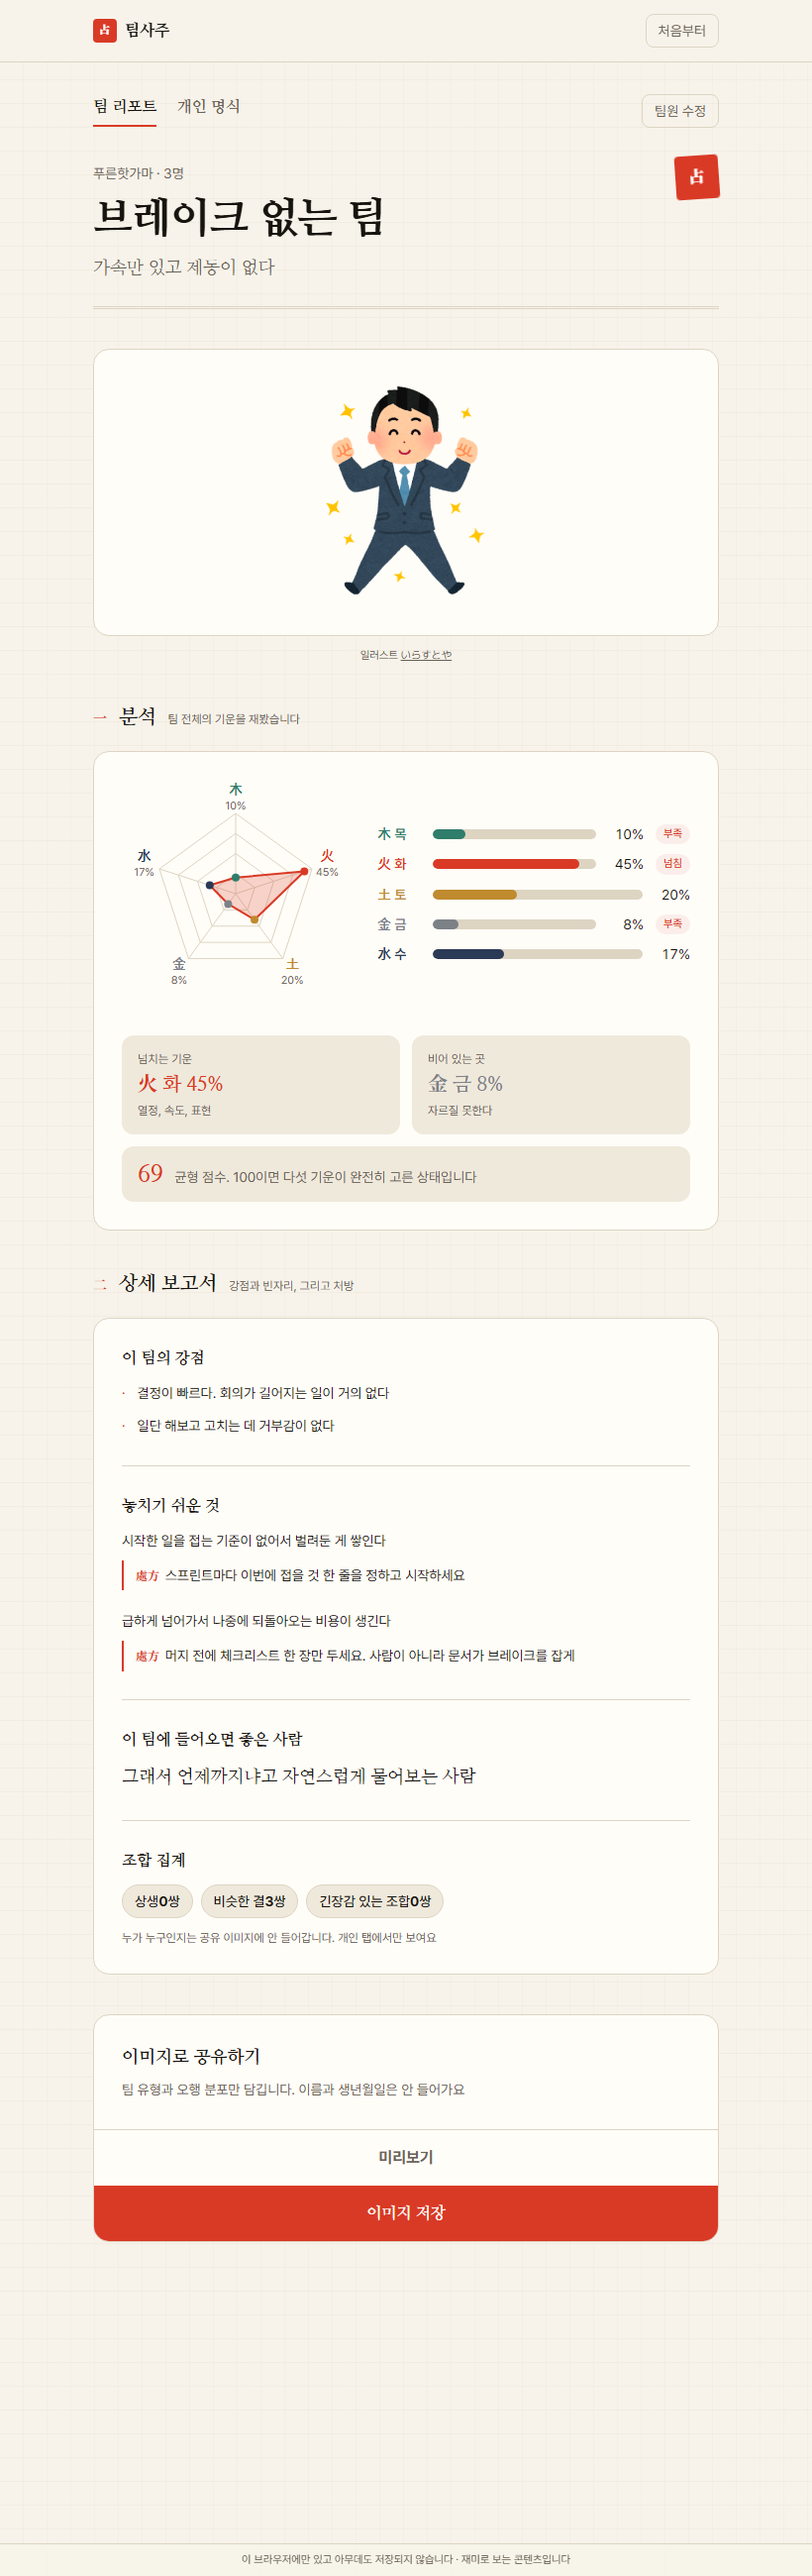
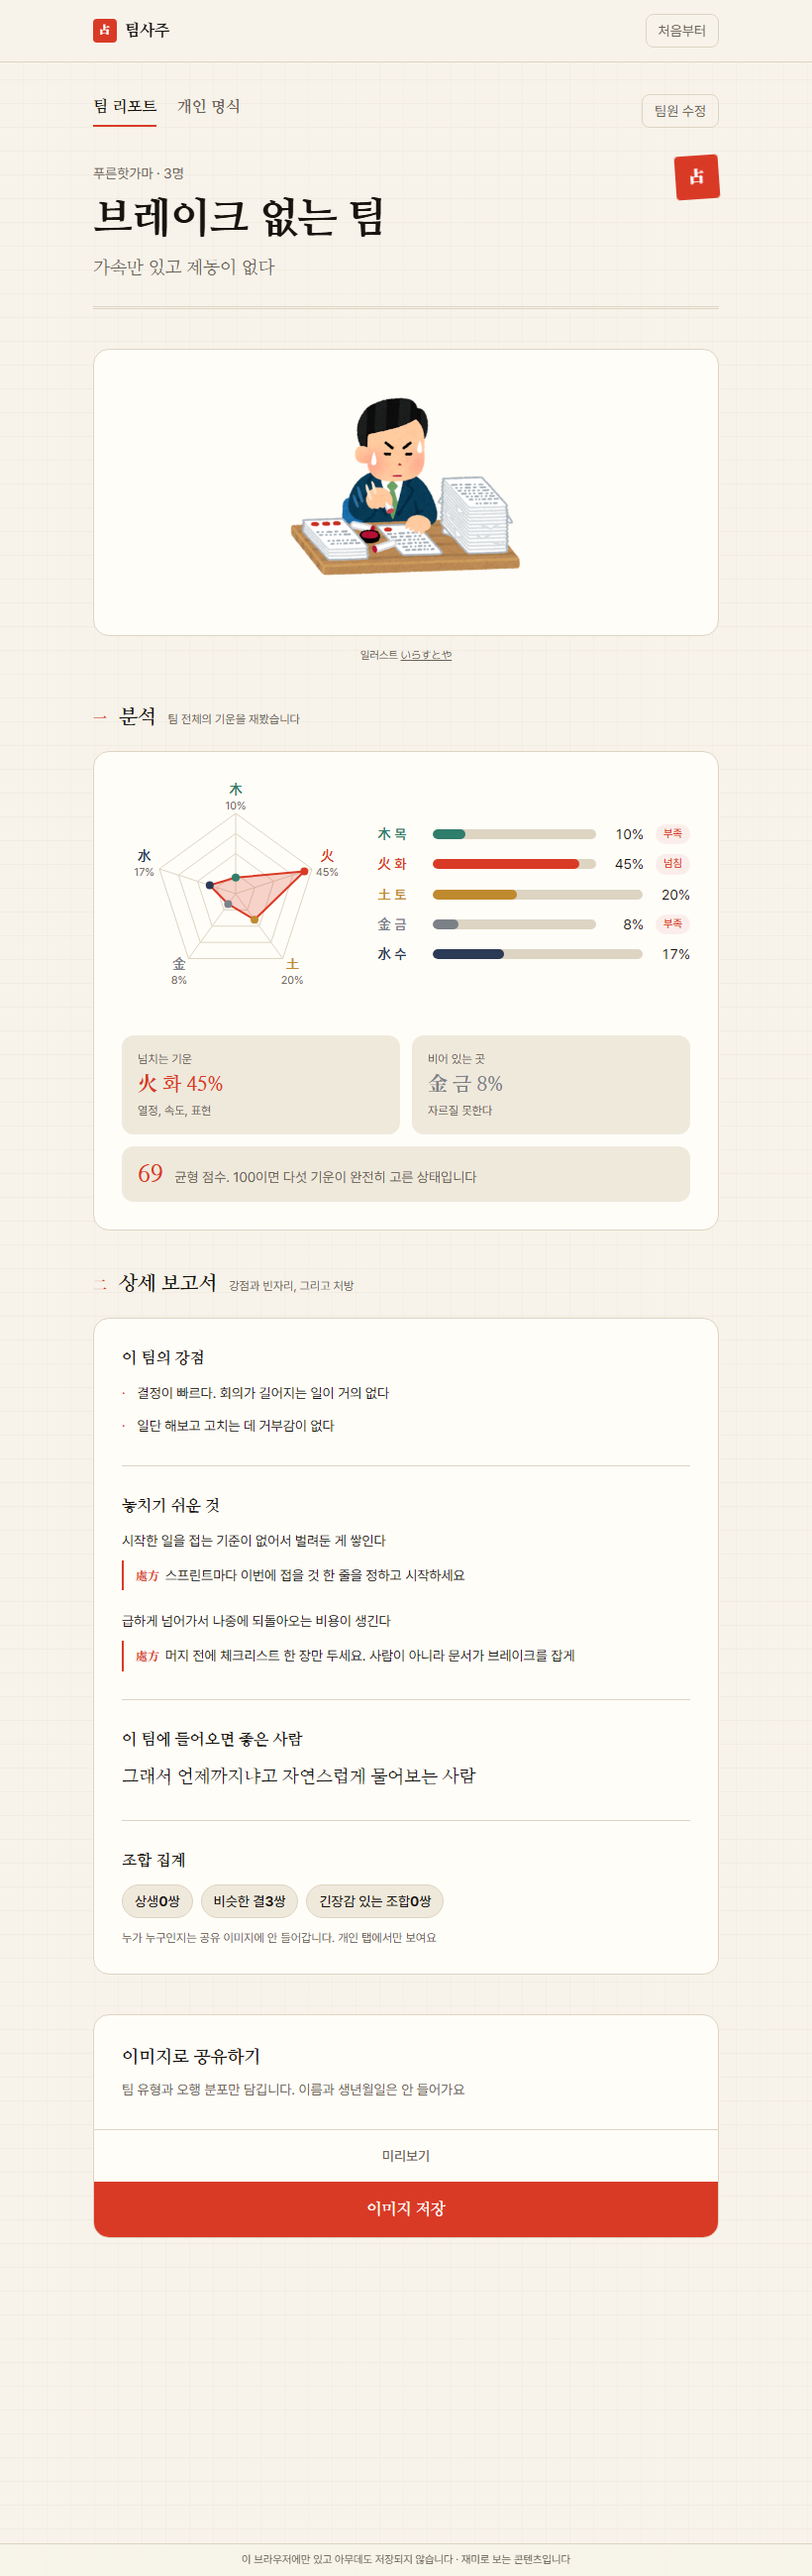
[FIX] 팀 유형 일러스트를 결핍 오행 기준으로 (#2) (#18)
* design: 결핍 오행 기준 일러스트 6종으로 교체

* fix: 일러스트를 주도 오행이 아니라 결핍 오행으로 고르게

* docs: 일러스트 선정 기준 결정을 로그에 남김

* fix: balanced 그림을 새 이름으로. immutable 캐시에 갇히는 걸 피함

Changed region(s): [[0.122, 0.81, 0.8841, 0.8723], [0.3659, 0.1246, 0.6402, 0.2492]]

diff --git a/src/lib/ui/elementStyle.ts b/src/lib/ui/elementStyle.ts
@@ -21,24 +21,28 @@ export const ELEMENT_HEX: Record<Element, string> = {
 /**
  * 팀 유형에 붙는 일러스트.
  * 이미지는 いらすとや(irasutoya.com) 무료 소재를 내려받아 public/illust 에 두었다.
- * 주도 오행으로 고르고, 균형형은 따로 둔다.
+ *
+ * 고르는 기준은 **결핍 오행**이다. 주도 오행이 아니다.
+ * 유형의 성격은 뭐가 넘치냐가 아니라 뭐가 없냐에서 나온다. 화가 넘치는 팀이라고
+ * 신난 그림을 붙이면, 정작 문구는 브레이크가 없다고 하는데 그림만 혼자 웃는다.
  */
-const ILLUST_BY_ELEMENT: Record<Element, { src: string; credit: string }> = {
-  木: { src: '/illust/wood.png', credit: 'アイディアの共有' },
-  火: { src: '/illust/fire.png', credit: '元気な男性会社員' },
-  土: { src: '/illust/earth.png', credit: '協力して進む子どもたち' },
-  金: { src: '/illust/metal.png', credit: '編集者' },
-  水: { src: '/illust/water.png', credit: '本を読んで閃いた人' },
+const ILLUST_BY_LACKING: Record<Element, { src: string; alt: string }> = {
+  木: { src: '/illust/no-wood.png', alt: '머리를 싸매고 있는 사람' },
+  火: { src: '/illust/no-fire.png', alt: '회의 중에 조는 사람' },
+  土: { src: '/illust/no-earth.png', alt: '손가락에 밀려 무너지는 도미노' },
+  金: { src: '/illust/no-metal.png', alt: '결재 서류가 산더미로 쌓인 책상' },
+  水: { src: '/illust/no-water.png', alt: '앞만 보고 돌진하는 멧돼지' },
 }
 
+/** 어디도 안 비어서 붙일 결핍이 없다. 아무도 안 집는 마지막 한 조각 */
 const BALANCED_ILLUST = {
-  src: '/illust/balanced.png',
-  credit: '協力しあう人達',
+  src: '/illust/no-lacking.png',
+  alt: '접시에 하나 남은 음식',
 }
 
-export function illustFor(archetypeId: string, dominant: Element) {
+export function illustFor(archetypeId: string, lacking: Element) {
   if (archetypeId === 'balanced') return BALANCED_ILLUST
-  return ILLUST_BY_ELEMENT[dominant]
+  return ILLUST_BY_LACKING[lacking]
 }
 
 export const ILLUST_SOURCE = 'いらすとや'

diff --git a/src/components/Common/CommonCard.tsx b/src/components/Common/CommonCard.tsx
@@ -1,4 +1,9 @@
-import type { ComponentPropsWithoutRef, ElementType, ReactNode } from 'react'
+import type {
+  ComponentPropsWithoutRef,
+  CSSProperties,
+  ElementType,
+  ReactNode,
+} from 'react'
 
 type OwnProps<T extends ElementType> = {
   /** form 이나 li 로도 쓴다. 폼 카드까지 프리미티브로 덮으려면 필요하다 */
@@ -7,6 +12,13 @@ type OwnProps<T extends ElementType> = {
   flush?: boolean
   /** 기본은 2xl. 바텀시트처럼 위만 둥근 경우 직접 준다 */
   radius?: string
+  /**
+   * className 과 style 은 여기서 구체 타입으로 못박는다.
+   * 아래 Omit 에 걸려 제네릭 쪽에서 빠지기 때문이다. 안 그러면 T 가 안 정해진 상태라
+   * className 이 ComponentPropsWithoutRef<T>[string] 로 남아서 기본값 '' 을 못 넣는다.
+   */
+  className?: string
+  style?: CSSProperties
   children: ReactNode
 }
 

diff --git a/src/components/Result/TeamIllustration.tsx b/src/components/Result/TeamIllustration.tsx
@@ -4,14 +4,14 @@ import { ILLUST_SOURCE, ILLUST_SOURCE_URL, illustFor } from '../../lib/ui/elemen
 
 export function TeamIllustration({ report }: { report: TeamReport }) {
   const { analysis, archetype } = report
-  const illust = illustFor(archetype.id, analysis.elements.dominant)
+  const illust = illustFor(archetype.id, analysis.elements.lacking)
 
   return (
     <figure className="flex flex-col items-center gap-3">
       <CommonCard flush className="flex w-full items-center justify-center px-6 py-8">
         <img
           src={illust.src}
-          alt={`${archetype.name} 이미지`}
+          alt={illust.alt}
           className="animate-ink h-44 w-auto object-contain sm:h-56"
           loading="lazy"
         />

diff --git a/src/lib/share/renderShareCard.ts b/src/lib/share/renderShareCard.ts
@@ -367,7 +367,7 @@ export async function drawShareCard(
   const ctx = canvas.getContext('2d')
   if (!ctx) return
 
-  const { src } = illustFor(report.archetype.id, report.analysis.elements.dominant)
+  const { src } = illustFor(report.archetype.id, report.analysis.elements.lacking)
   const illust = await loadImage(src)
 
   // 1차. 높이만 잰다

diff --git a/docs/05-roadmap.md b/docs/05-roadmap.md
@@ -67,6 +67,8 @@
 | 2026-09-06 | 공유 단위는 팀뿐이다. 개인 사주 카드와 이름은 브라우저 안에만 두고, 공유 뷰에는 팀 유형과 오행 집계만 내보낸다 |
 | 2026-09-06 | v1은 저장을 아예 안 한다. localStorage도 안 쓴다. 입력하면 결과만 나오고 새로고침하면 사라진다. 공유는 이미지 추출 하나로만. 링크 공유와 마크다운 복사는 뒤로 미룬다 |
 | 2026-09-06 | 디자인은 사주 감성으로. 한지 바탕에 먹 글씨, 주사(다홍) 포인트, 오행은 전통 오방색. 제목은 명조체 |
-| 2026-09-06 | 팀 유형마다 いらすとや 무료 일러스트를 붙인다. 주도 오행 5종과 균형형 1종, 총 6장을 public/illust 에 받아둔다 |
+| 2026-09-06 | 팀 유형마다 いらすとや 무료 일러스트를 붙인다. 총 6장을 public/illust 에 받아둔다 |
 | 2026-09-06 | 결과 화면 순서는 요약 타이틀, 일러스트, 분석, 상세 보고서 |
 | 2026-09-06 | 분석 전에 로딩 화면을 둔다. 명식을 보는 척하는 문구가 돌아간다 |
+| 2026-09-07 | 일러스트는 **결핍 오행**으로 고른다. 유형의 성격은 뭐가 넘치냐가 아니라 뭐가 없냐에서 나온다. 주도 오행으로 고르면 문구는 브레이크가 없다는데 그림만 신나 있다 |
+| 2026-09-07 | public/illust 파일은 내용이 바뀌면 이름도 바꾼다. vercel.json 이 1년 immutable 캐시를 걸어둬서, 같은 이름으로 내용만 갈면 이미 받아간 사람은 옛 그림을 계속 본다 |
